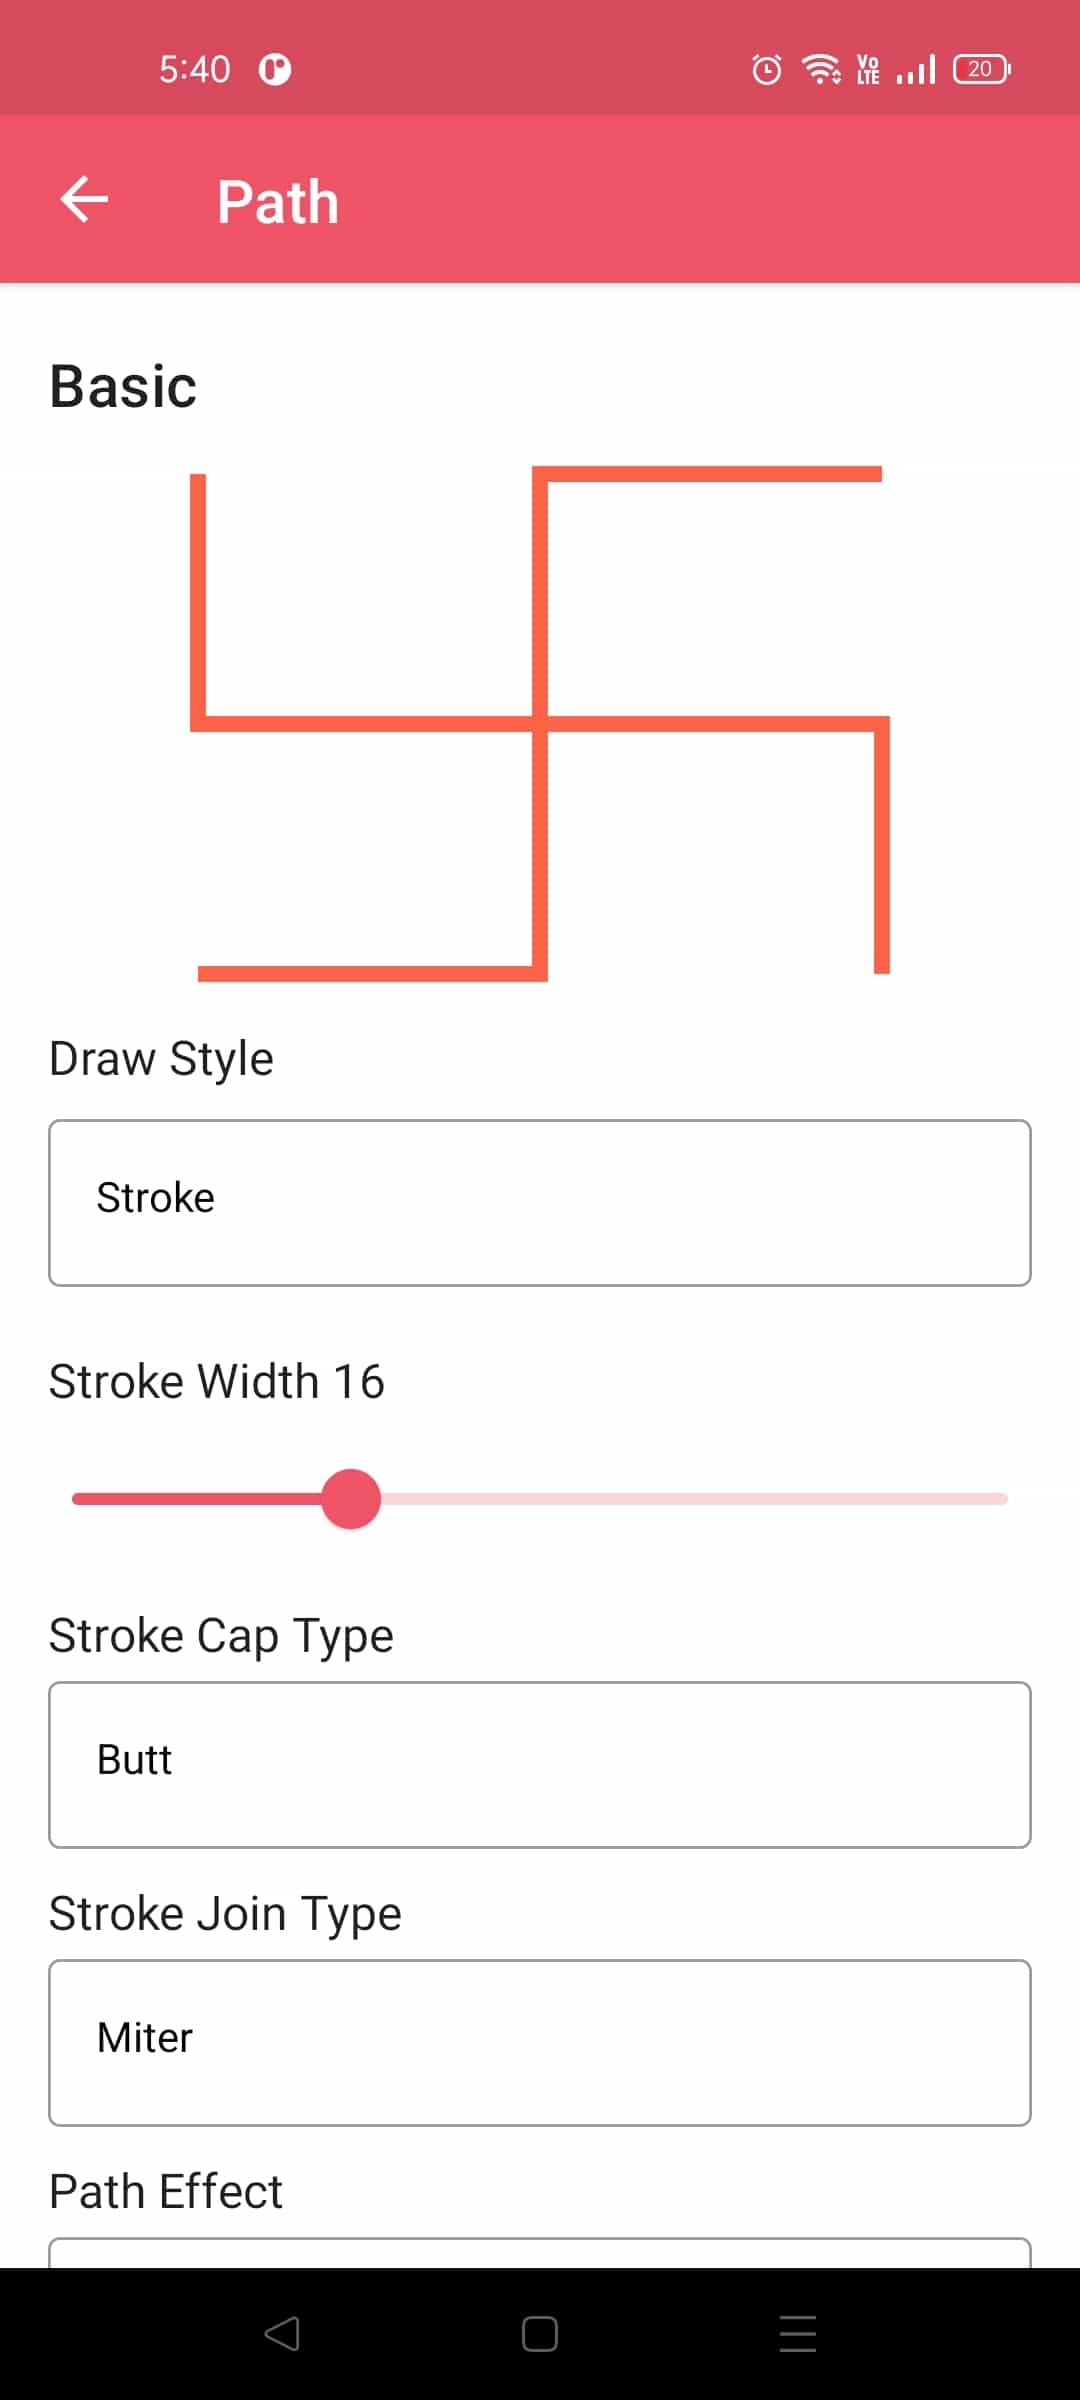
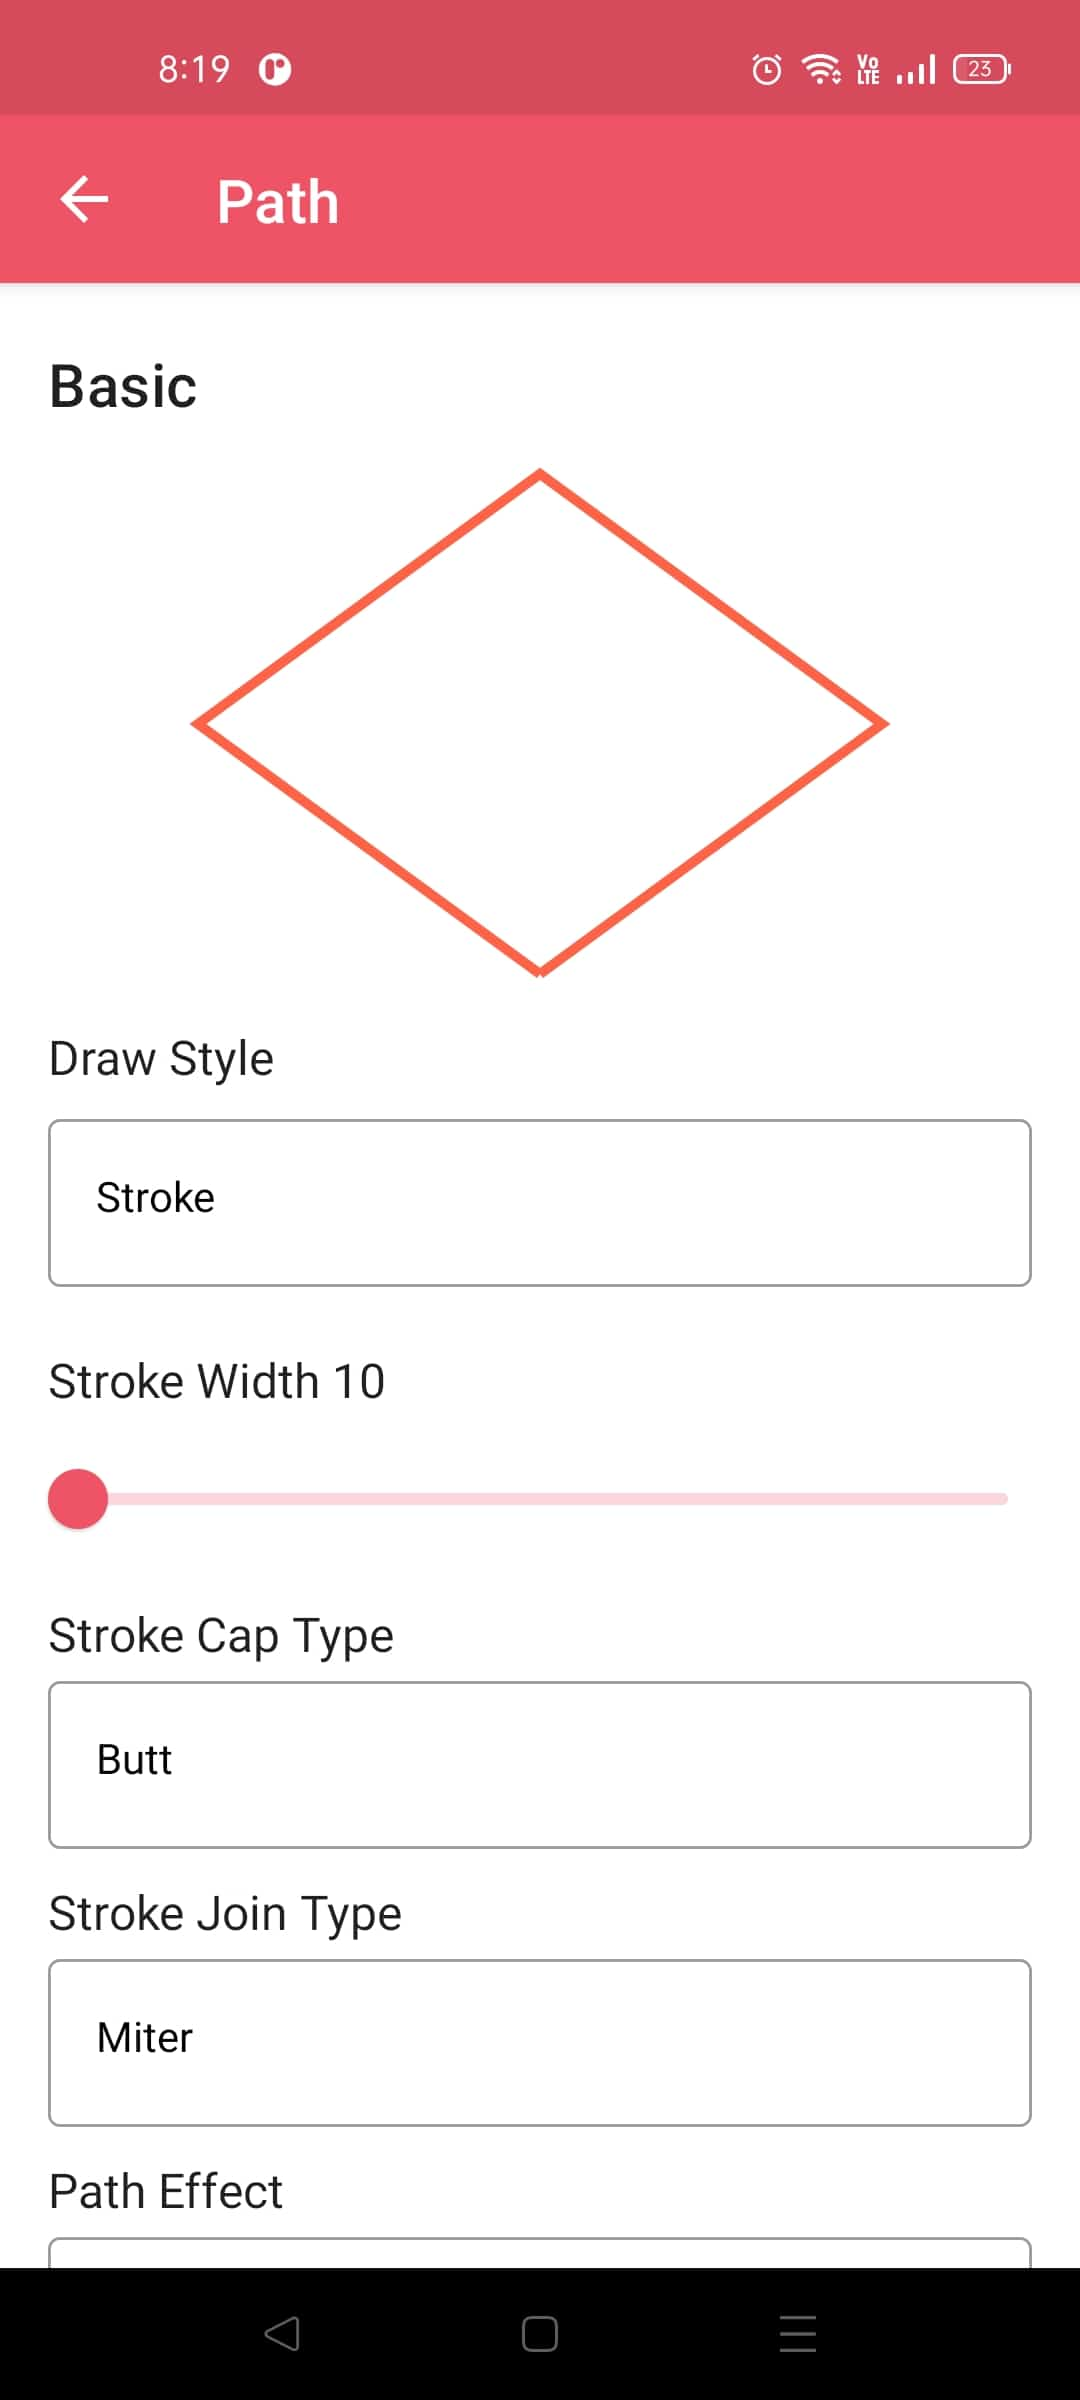
GIF optimization for README.md and change in canvas path example.

diff --git a/app/src/main/java/com/jetpack/compose/learning/canvas/CanvasPathsActivity.kt b/app/src/main/java/com/jetpack/compose/learning/canvas/CanvasPathsActivity.kt
@@ -130,13 +130,11 @@ class CanvasPathsActivity : ComponentActivity() {
                 val halfCanvasWidth = canvasWidth / 2
                 val halfCanvasHeight = canvasHeight / 2
                 val path = Path().apply {
+                    moveTo(halfCanvasWidth, canvasHeight)
                     lineTo(0f, halfCanvasHeight)
-                    lineTo(canvasWidth, halfCanvasHeight)
-                    lineTo(canvasWidth, canvasHeight)
-                    moveTo(canvasWidth, 0f)
                     lineTo(halfCanvasWidth, 0f)
+                    lineTo(canvasWidth, halfCanvasHeight)
                     lineTo(halfCanvasWidth, canvasHeight)
-                    lineTo(0f, canvasHeight)
                 }
                 drawPath(
                     path,
